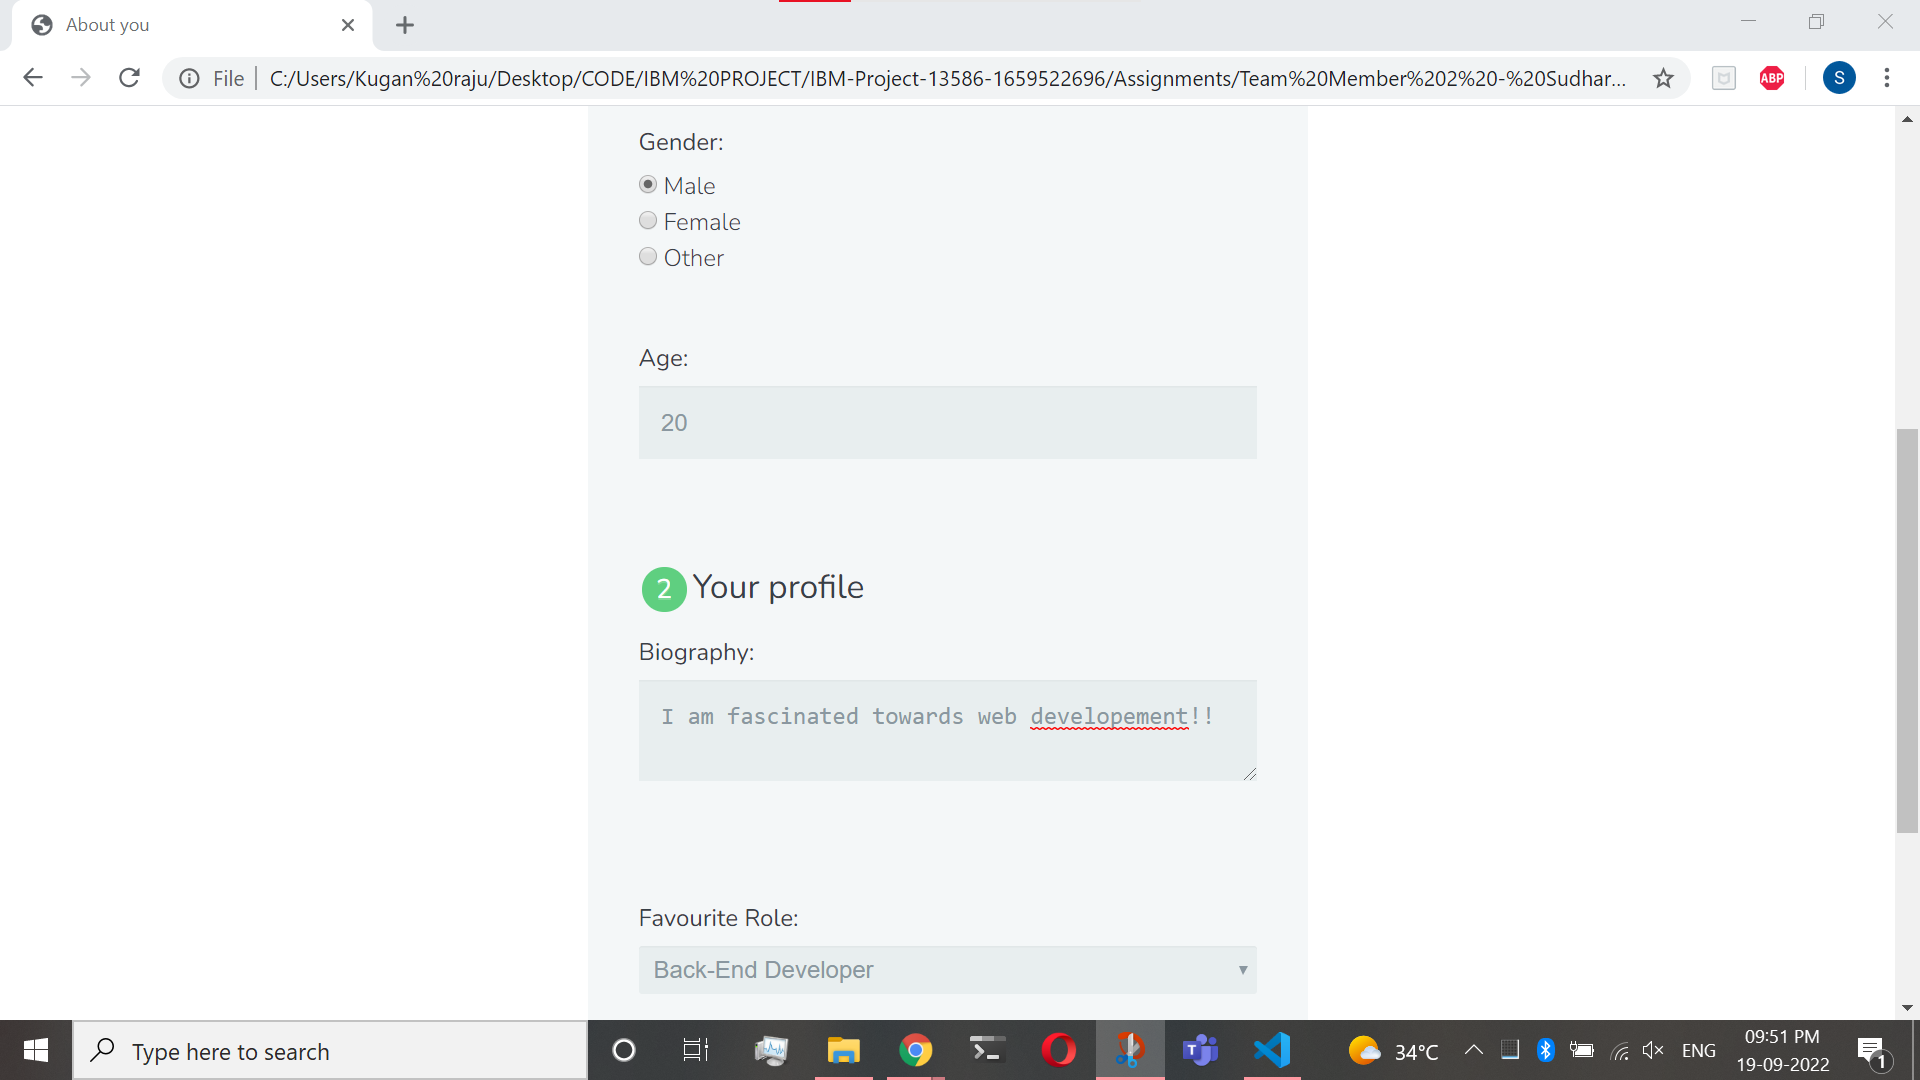
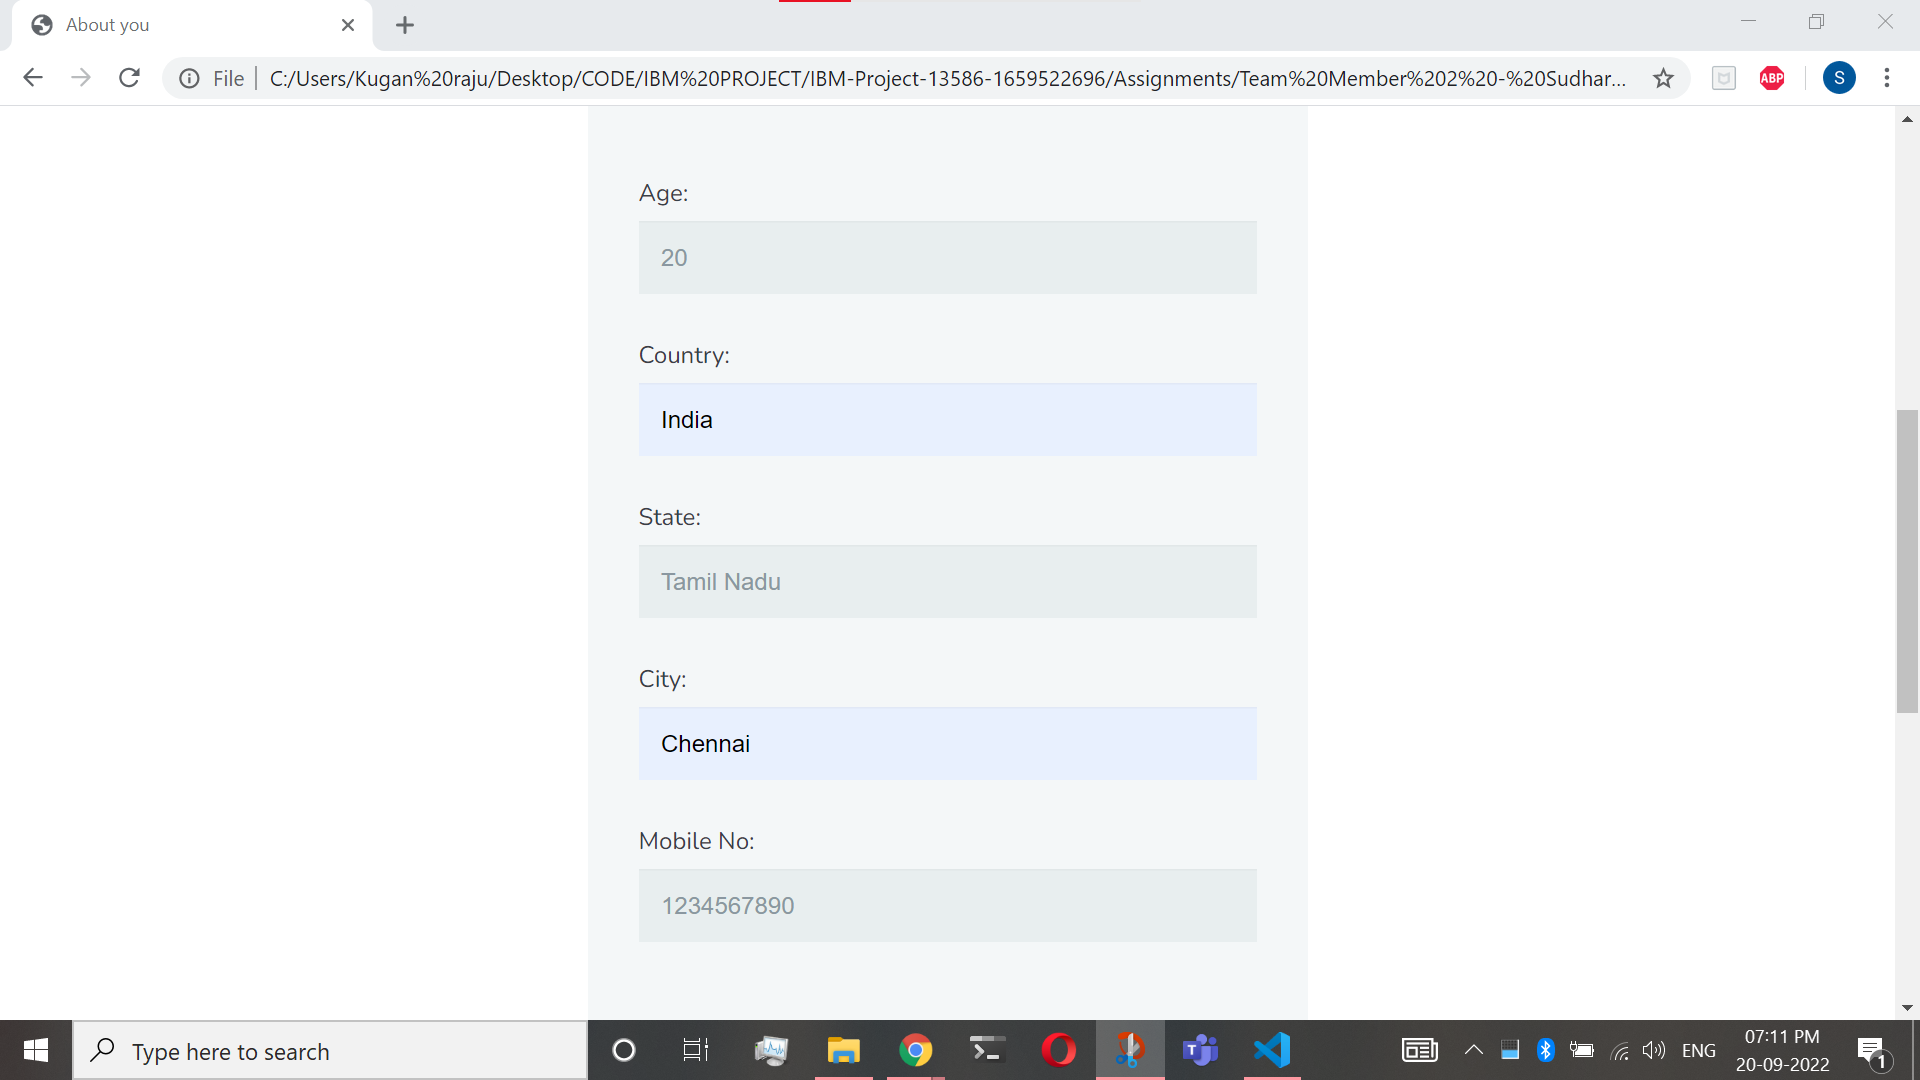
Updated screenshots

diff --git a/Assignments/Team Member 2 - Sudharshan/Assignment-1/index.html b/Assignments/Team Member 2 - Sudharshan/Assignment-1/index.html
@@ -3,7 +3,6 @@
     <meta charset="utf-8">
     <meta name="viewport" content="width=device-width, initial-scale=1.0">
     <title>About you</title>
-    <link rel="stylesheet" href="css/normalize.css">
     <link href='https://fonts.googleapis.com/css?family=Nunito:400,300' rel='stylesheet' type='text/css'>
     <link rel="stylesheet" href="style.css">
 </head>
@@ -31,6 +30,18 @@
     
       <label>Age:</label>
       <input type="number" min="0" max="100" step="1" value="20" size="6">
+      
+      <label for="country">Country:</label>
+      <input type="text" id="country" name="user_country">
+
+      <label for="state">State:</label>
+      <input type="text" id="state" name="user_state">
+
+      <label for="city">City:</label>
+      <input type="text" id="city" name="city">
+
+      <label for="mobile_no">Mobile No:</label>
+      <input type="tel" id="mobile_no" name="user_mobile_no">
 
     </fieldset>
     
